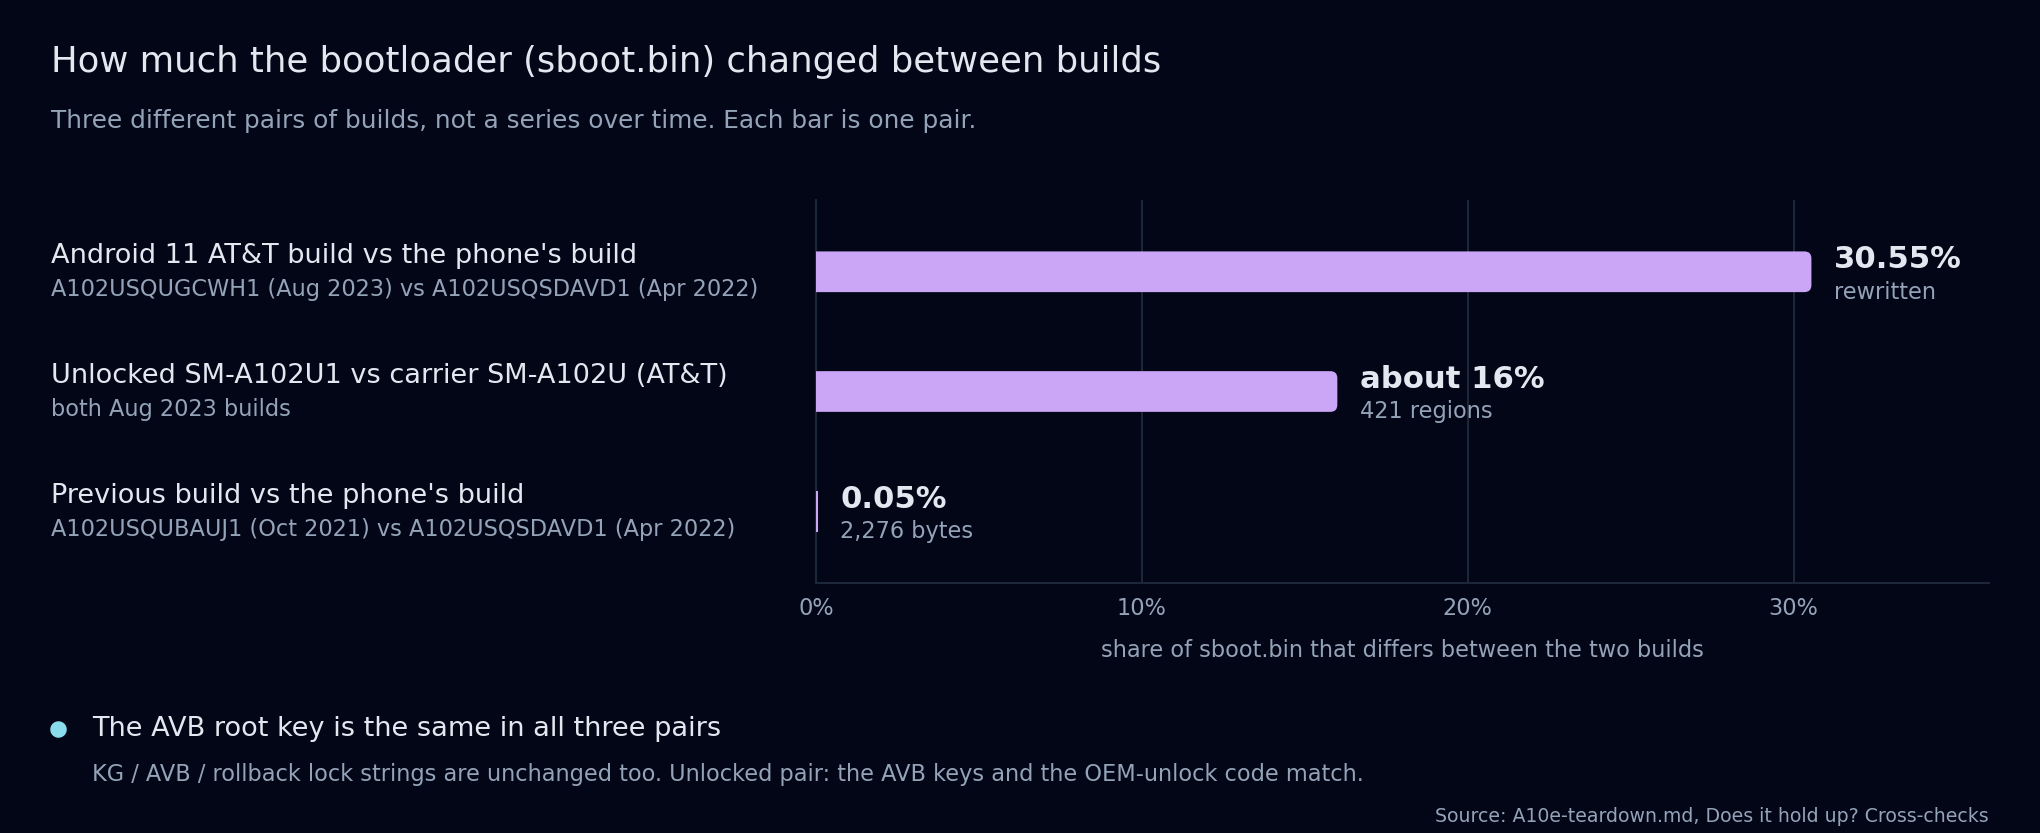
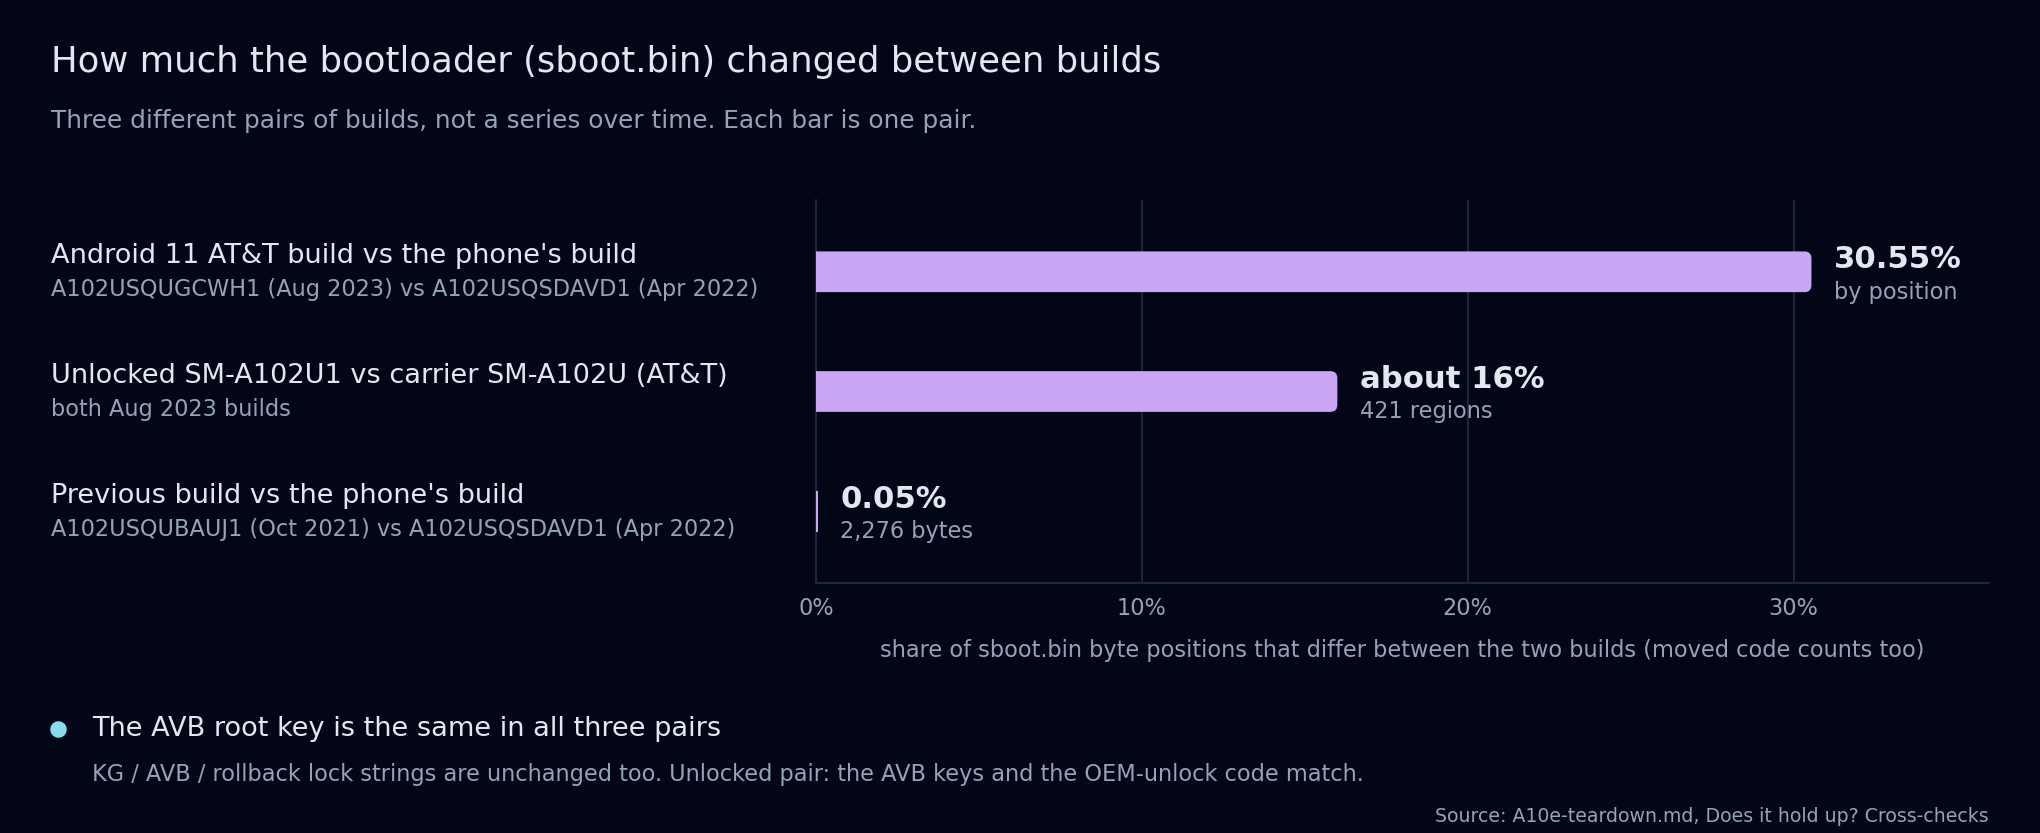
cross-build chart: 30.55% is labelled 'by position' and the axis says moved code counts too, not 'rewritten' (sboot_diff.py is a position-by-position compare)

Changed region(s): [[0.4324, 0.7491, 0.9265, 0.8115], [0.8956, 0.3433, 0.9574, 0.3745]]

diff --git a/tools/sboot_diff_chart.py b/tools/sboot_diff_chart.py
@@ -21,12 +21,12 @@ plt.rcParams.update({
 })
 
 # (pair, builds, percent differing, value label, detail under the value)
-# Teardown, Cross-checks item 2: 30.55% of the bootloader rewritten.
+# Teardown, Cross-checks item 2: 30.55% of byte positions differ (a position-by-position compare).
 # Item 4: about 16% differ (421 regions). Item 1: 2276 bytes, 0.05%.
 ROWS = [
     ("Android 11 AT&T build vs the phone's build",
      "A102USQUGCWH1 (Aug 2023) vs A102USQSDAVD1 (Apr 2022)",
-     30.55, "30.55%", "rewritten"),
+     30.55, "30.55%", "by position"),
     ("Unlocked SM-A102U1 vs carrier SM-A102U (AT&T)",
      "both Aug 2023 builds",
      16.0, "about 16%", "421 regions"),
@@ -50,7 +50,7 @@ ax.set_axisbelow(True)
 ax.tick_params(axis="x", labelsize=9.5, length=0, pad=6)
 for s in ("top", "right"): ax.spines[s].set_visible(False)
 for s in ("left", "bottom"): ax.spines[s].set_linewidth(0.8)
-ax.set_xlabel("share of sboot.bin that differs between the two builds", fontsize=9.5, labelpad=8)
+ax.set_xlabel("share of sboot.bin byte positions that differ between the two builds (moved code counts too)", fontsize=9.5, labelpad=8)
 
 # data units per pixel, for a 4 px rounded data end (4 CSS px is about 7 px at this dpi)
 (x0p, y0p), (x1p, y1p) = ax.transData.transform([(0, 0), (1, 1)])
